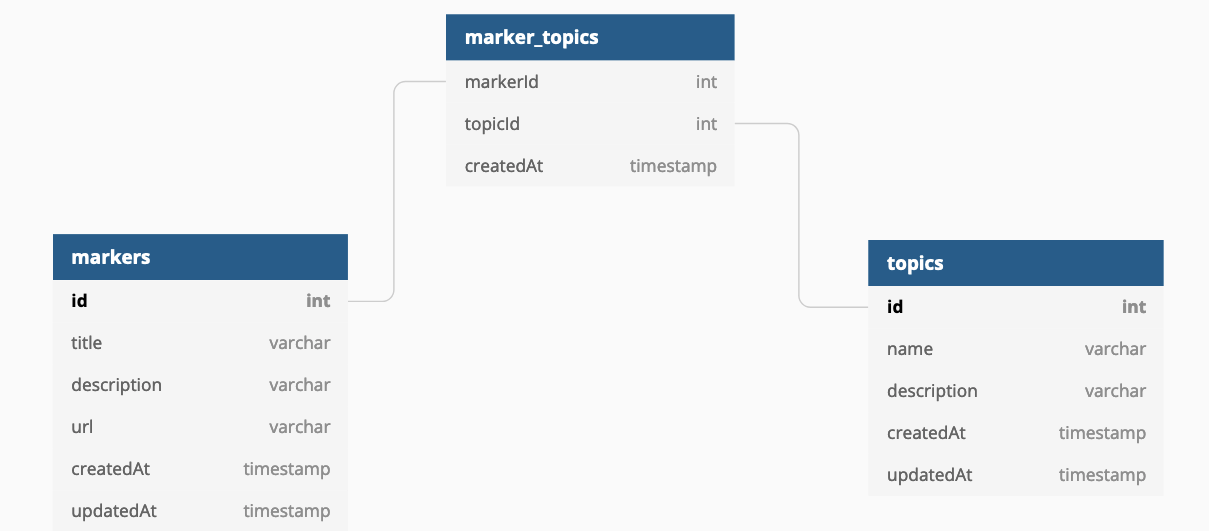
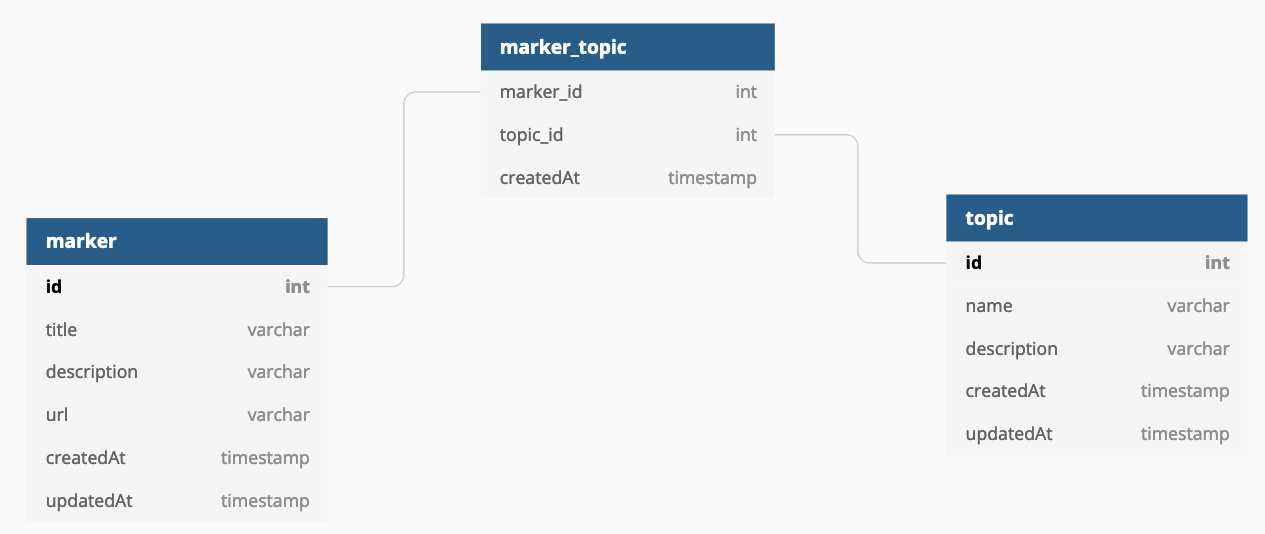
Update sequelize models

diff --git a/memory-marker-api/database/model.js b/memory-marker-api/database/model.js
@@ -1,6 +1,6 @@
 const db = require('./databaseFactory');
 const Sequelize = require('sequelize');
-const Marker = db.define('marker', {
+const Marker = db.define('Marker', {
     title: {
         type: Sequelize.STRING,
         allowNull: false,
@@ -15,9 +15,13 @@ const Marker = db.define('marker', {
         allowNull: false,
         unique: true
     }
+},
+{
+    freezeTableName: true,
+    tableName: 'marker'
 });
 
-const Topic = db.define('topic', {
+const Topic = db.define('Topic', {
     name: {
         type: Sequelize.STRING,
         allowNull: false,
@@ -27,17 +31,21 @@ const Topic = db.define('topic', {
         type: Sequelize.TEXT,
         allowNull: true
     }
+},
+{
+    freezeTableName: true,
+    tableName: 'topic'
 })
 
-const MarkerTopic = db.define('marker_topic', {
-    markerId: {
+const MarkerTopic = db.define('MarkerTopic', {
+    marker_id: {
         type: Sequelize.INTEGER,
         references: {
             model: Marker,
             key: 'id'
         }
     },
-    topicId: {
+    topic_id: {
         type: Sequelize.INTEGER,
         references: {
             model: Topic,
@@ -46,7 +54,9 @@ const MarkerTopic = db.define('marker_topic', {
     }
 },
 {
-    updatedAt: false
+    updatedAt: false,
+    freezeTableName: true,
+    tableName: 'marker_topic'
 });
 
 Marker.belongsToMany(Topic, {through: MarkerTopic});
